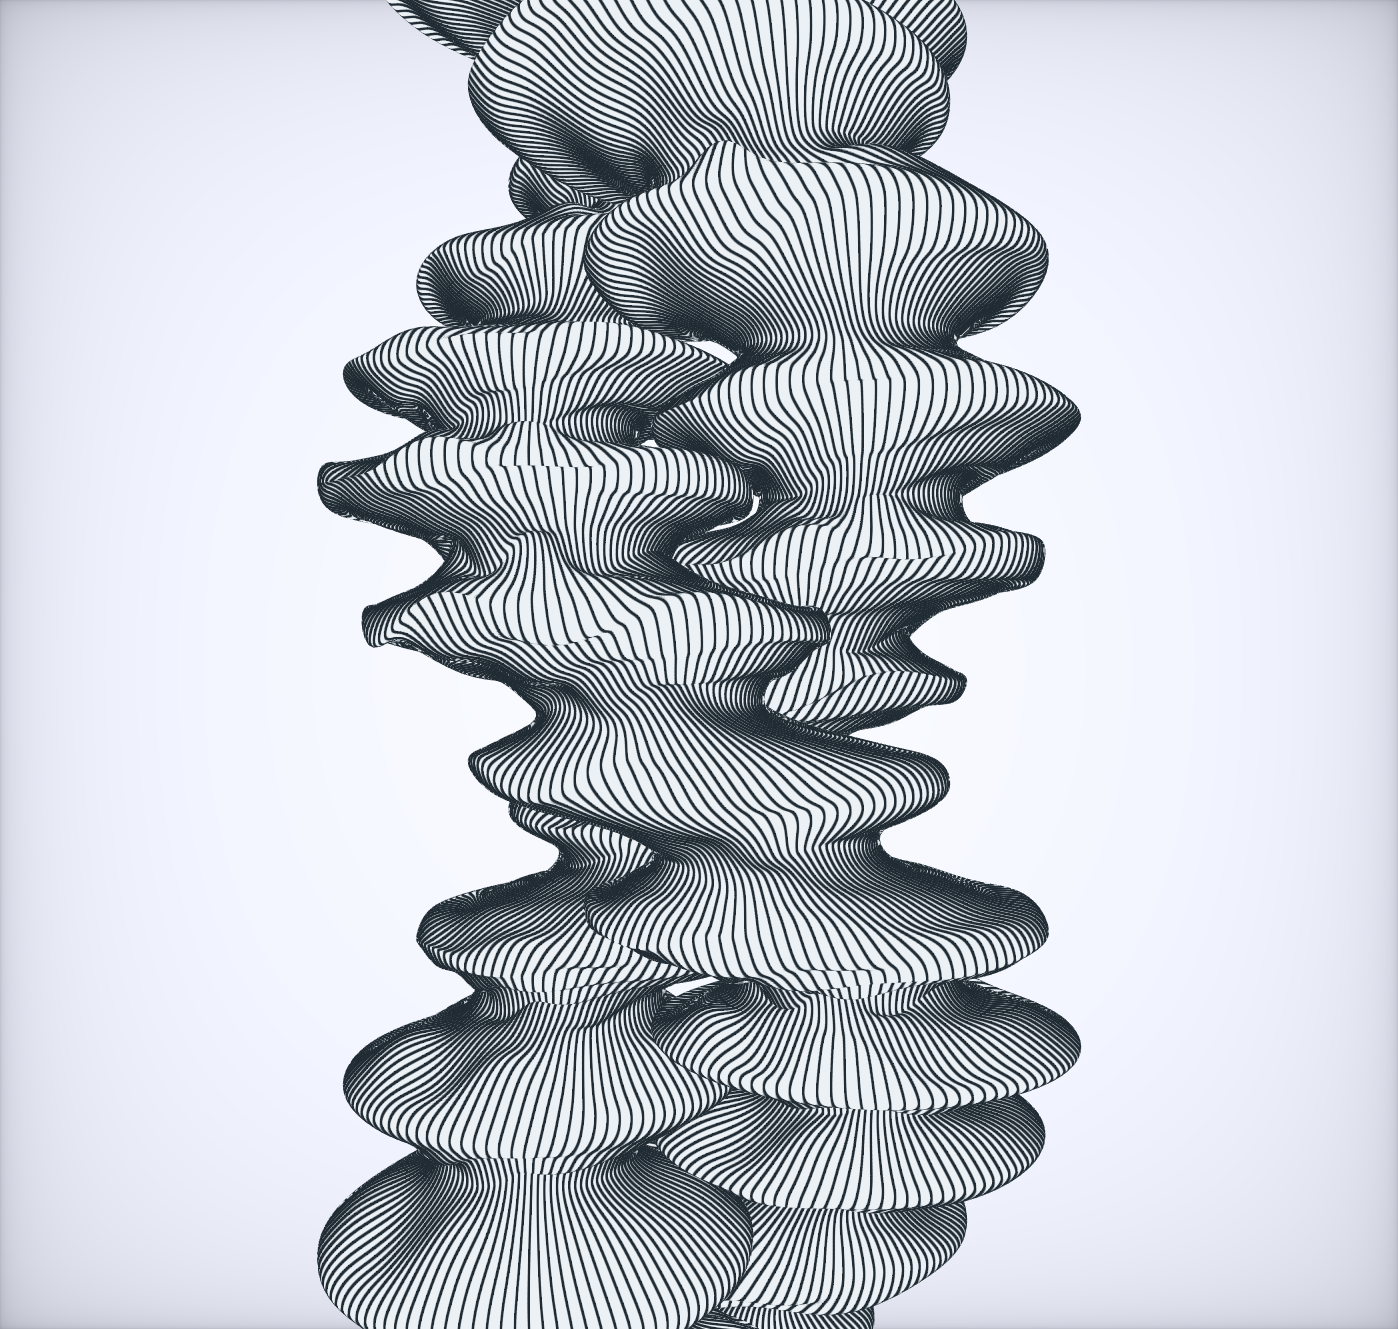
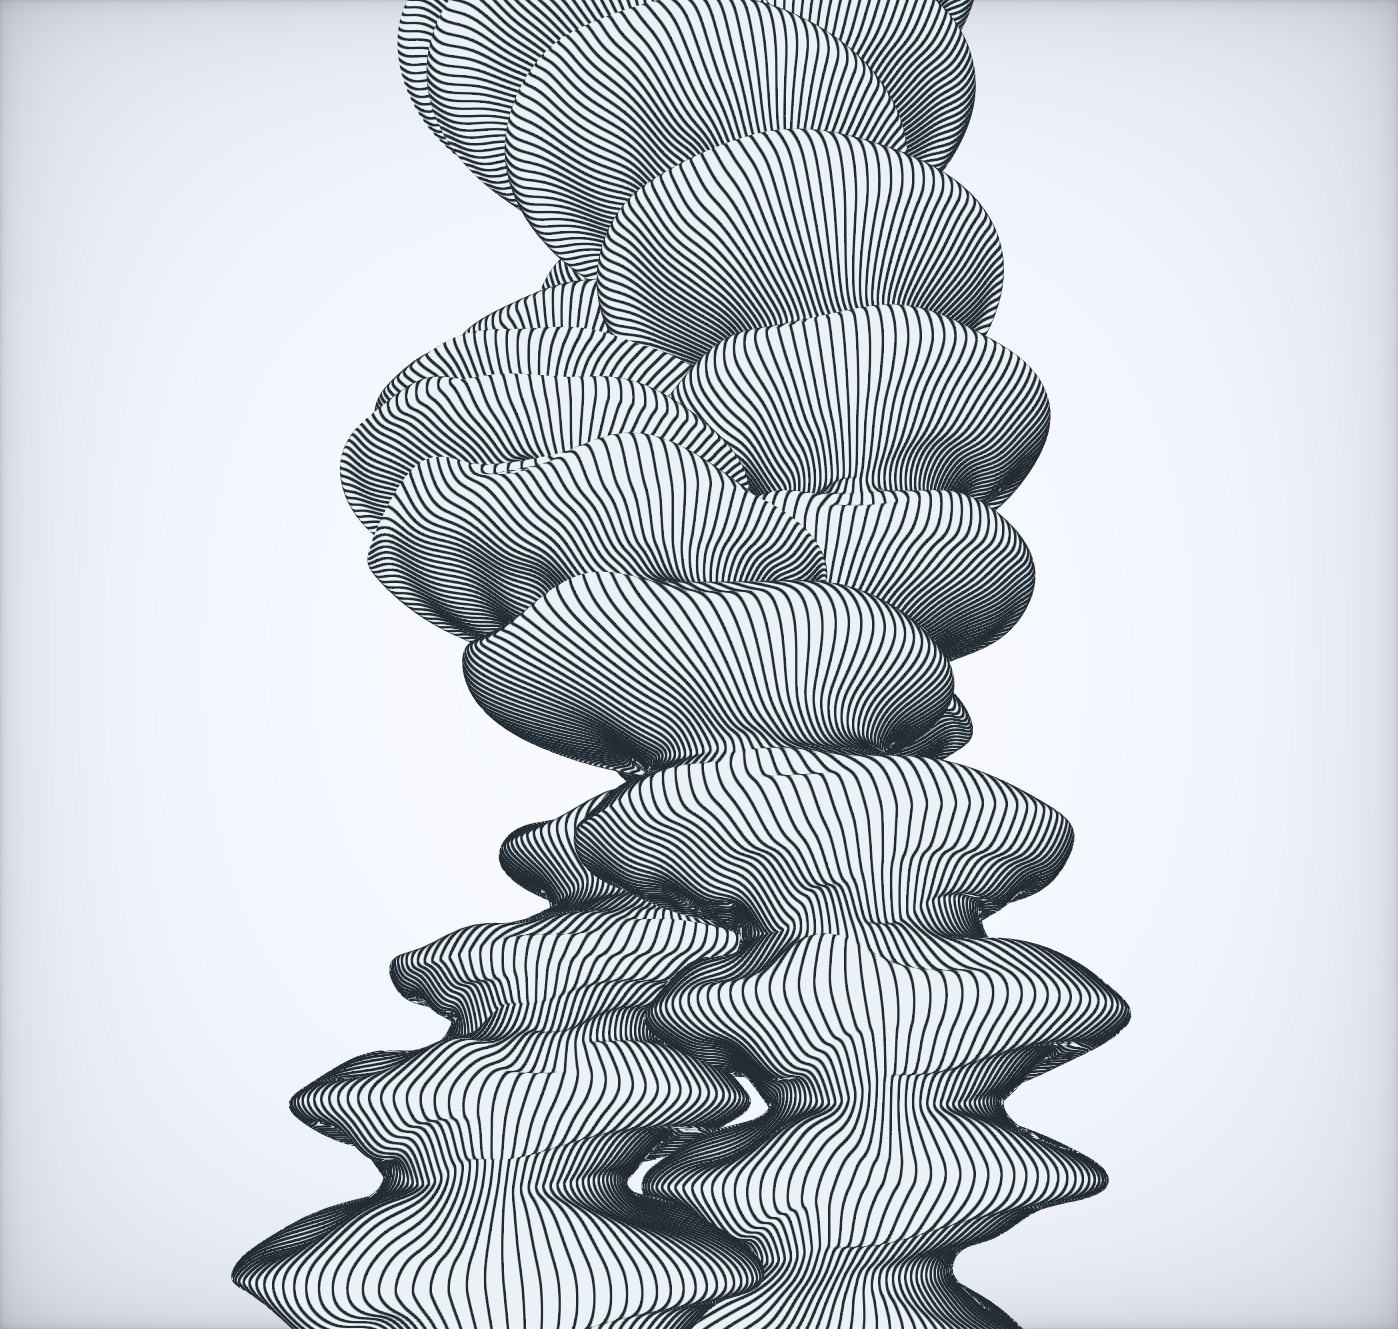
improve

diff --git a/src/sketches/053_linear_mushroom/index.js b/src/sketches/053_linear_mushroom/index.js
@@ -98,7 +98,7 @@ const sketch = async ({ canvas, width, height }) => {
   const scene = new Scene(engine);
   scene.autoClear = false;
 
-  const camera = new ArcRotateCamera('camera', Math.PI / 1.5, Math.PI / 2, 60.0, new Vector3(0, 0, 0), scene);
+  const camera = new ArcRotateCamera('camera', Math.PI / 1.5, Math.PI / 2 + 0.4, 60.0, new Vector3(0, 0, 0), scene);
 
   camera.lowerBetaLimit = Math.PI / 8;
   camera.upperBetaLimit = Math.PI - Math.PI / 8;
